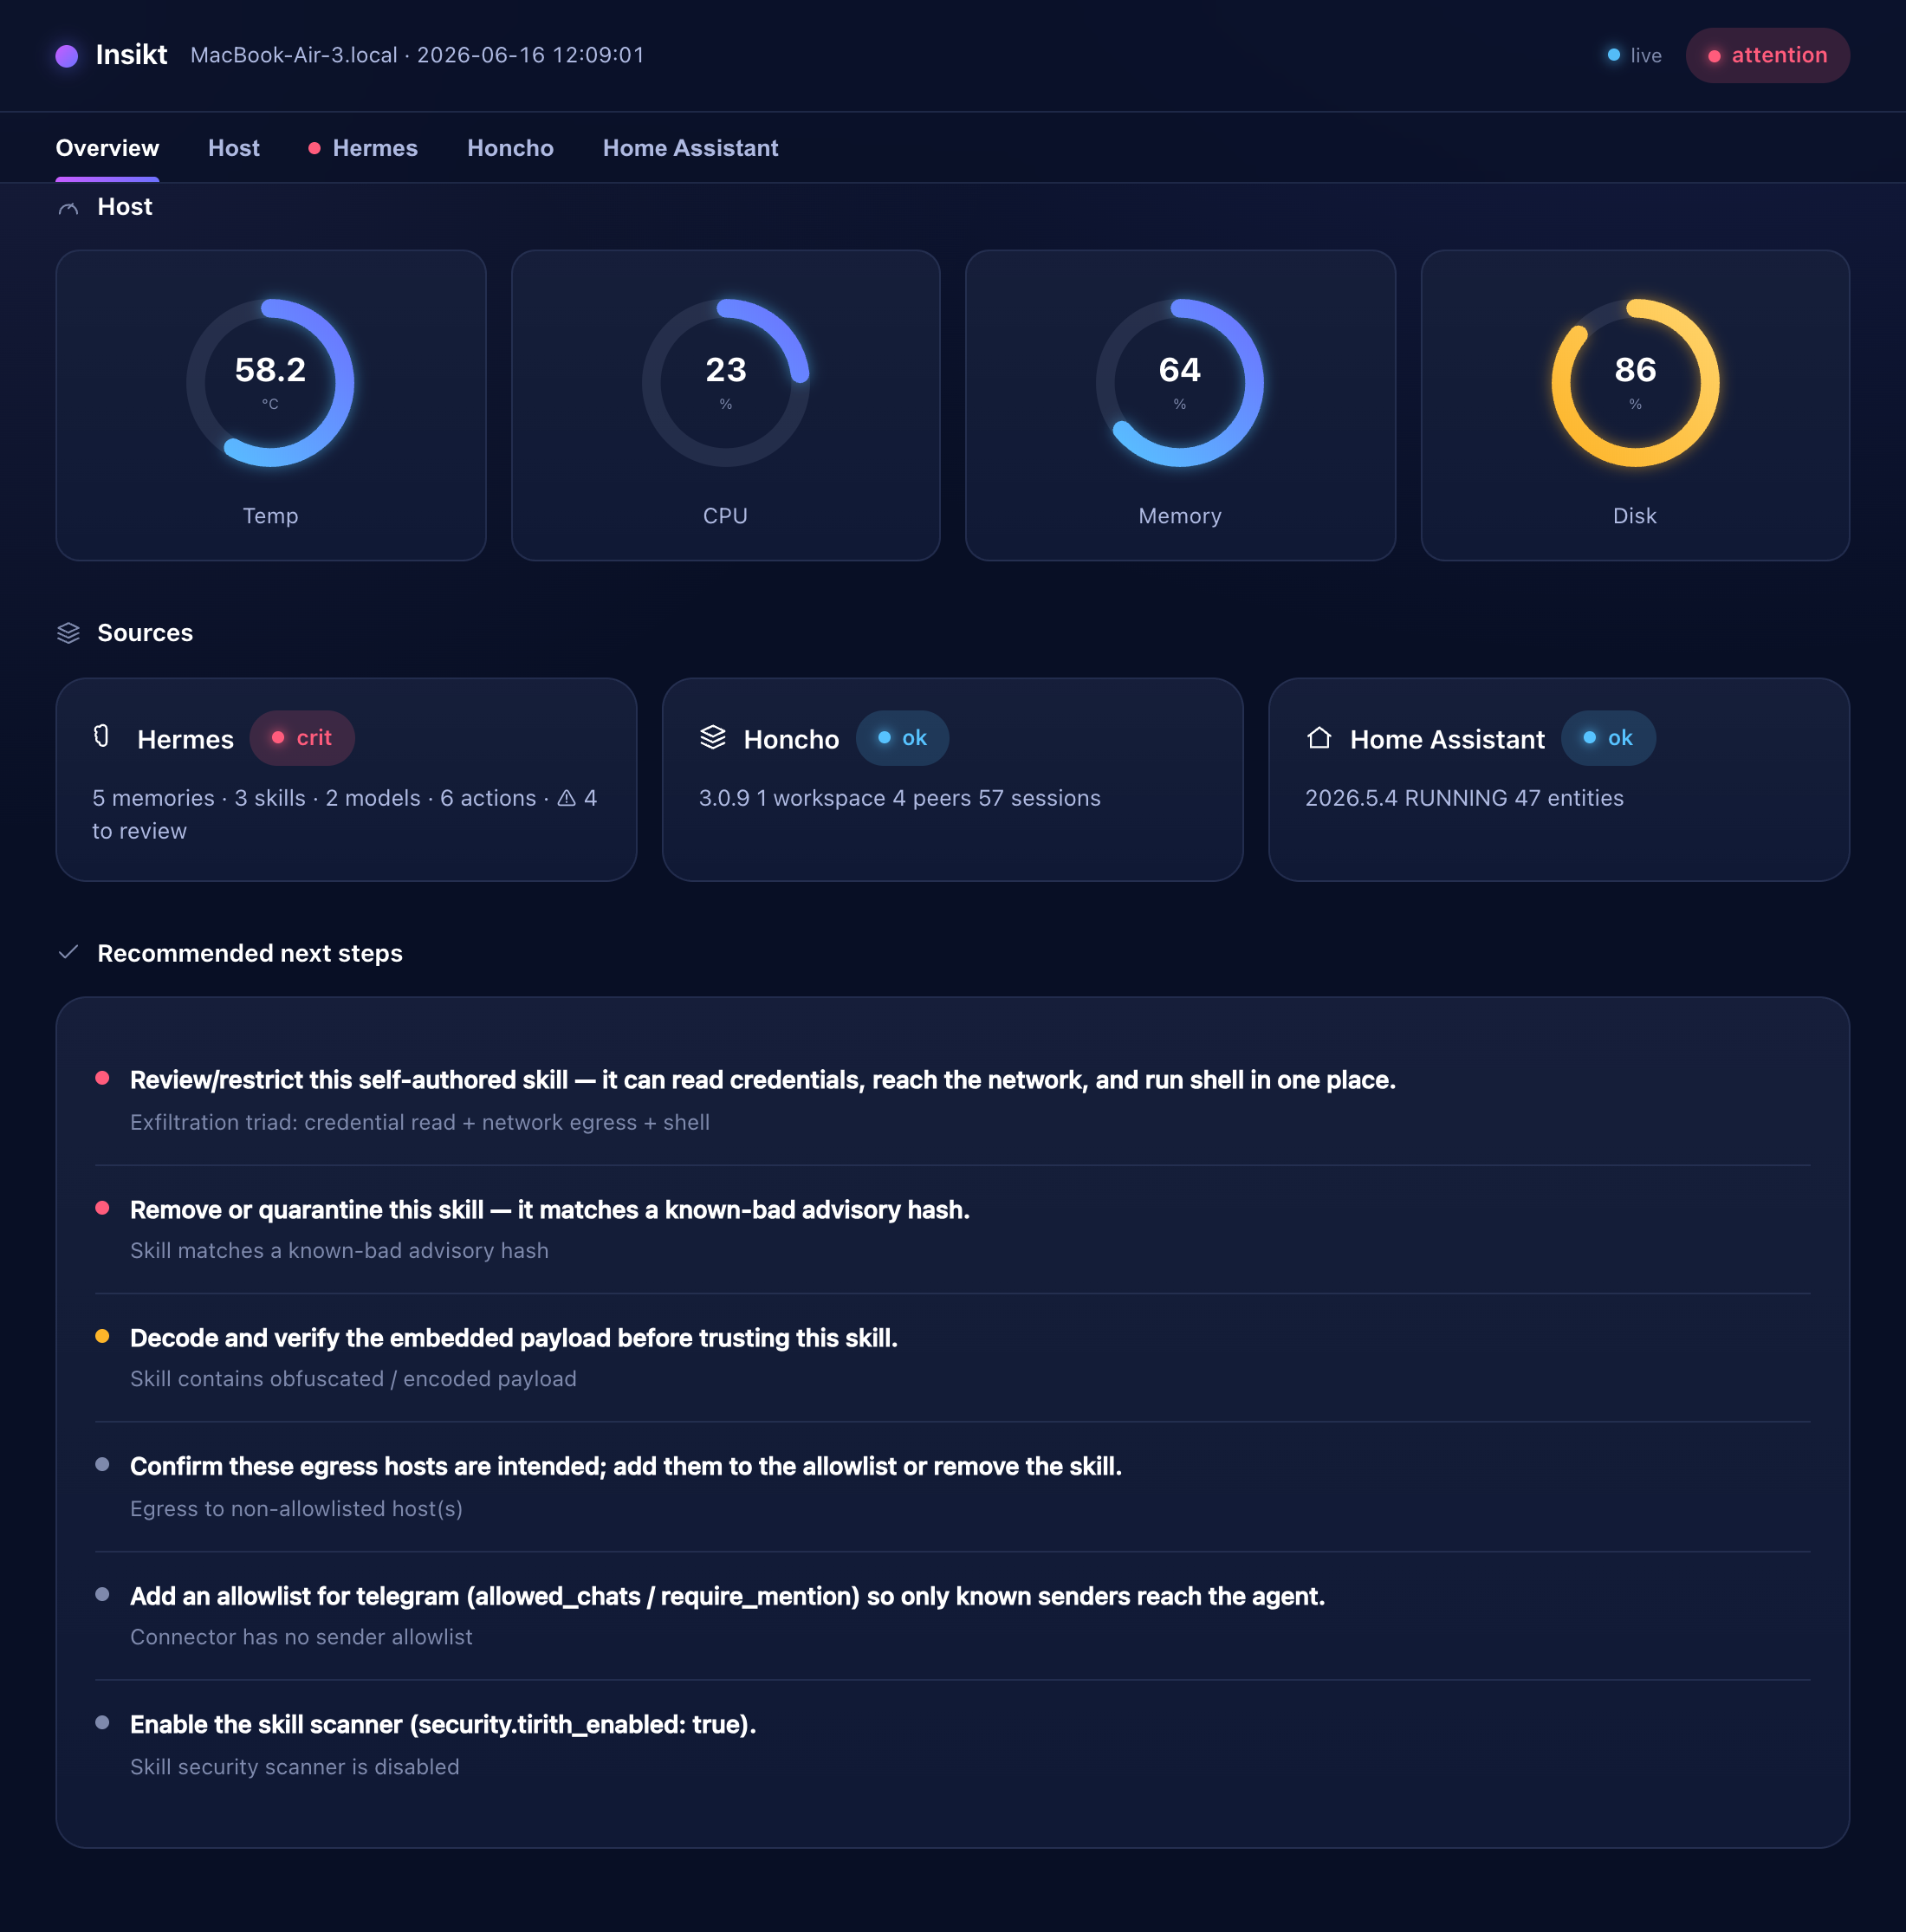
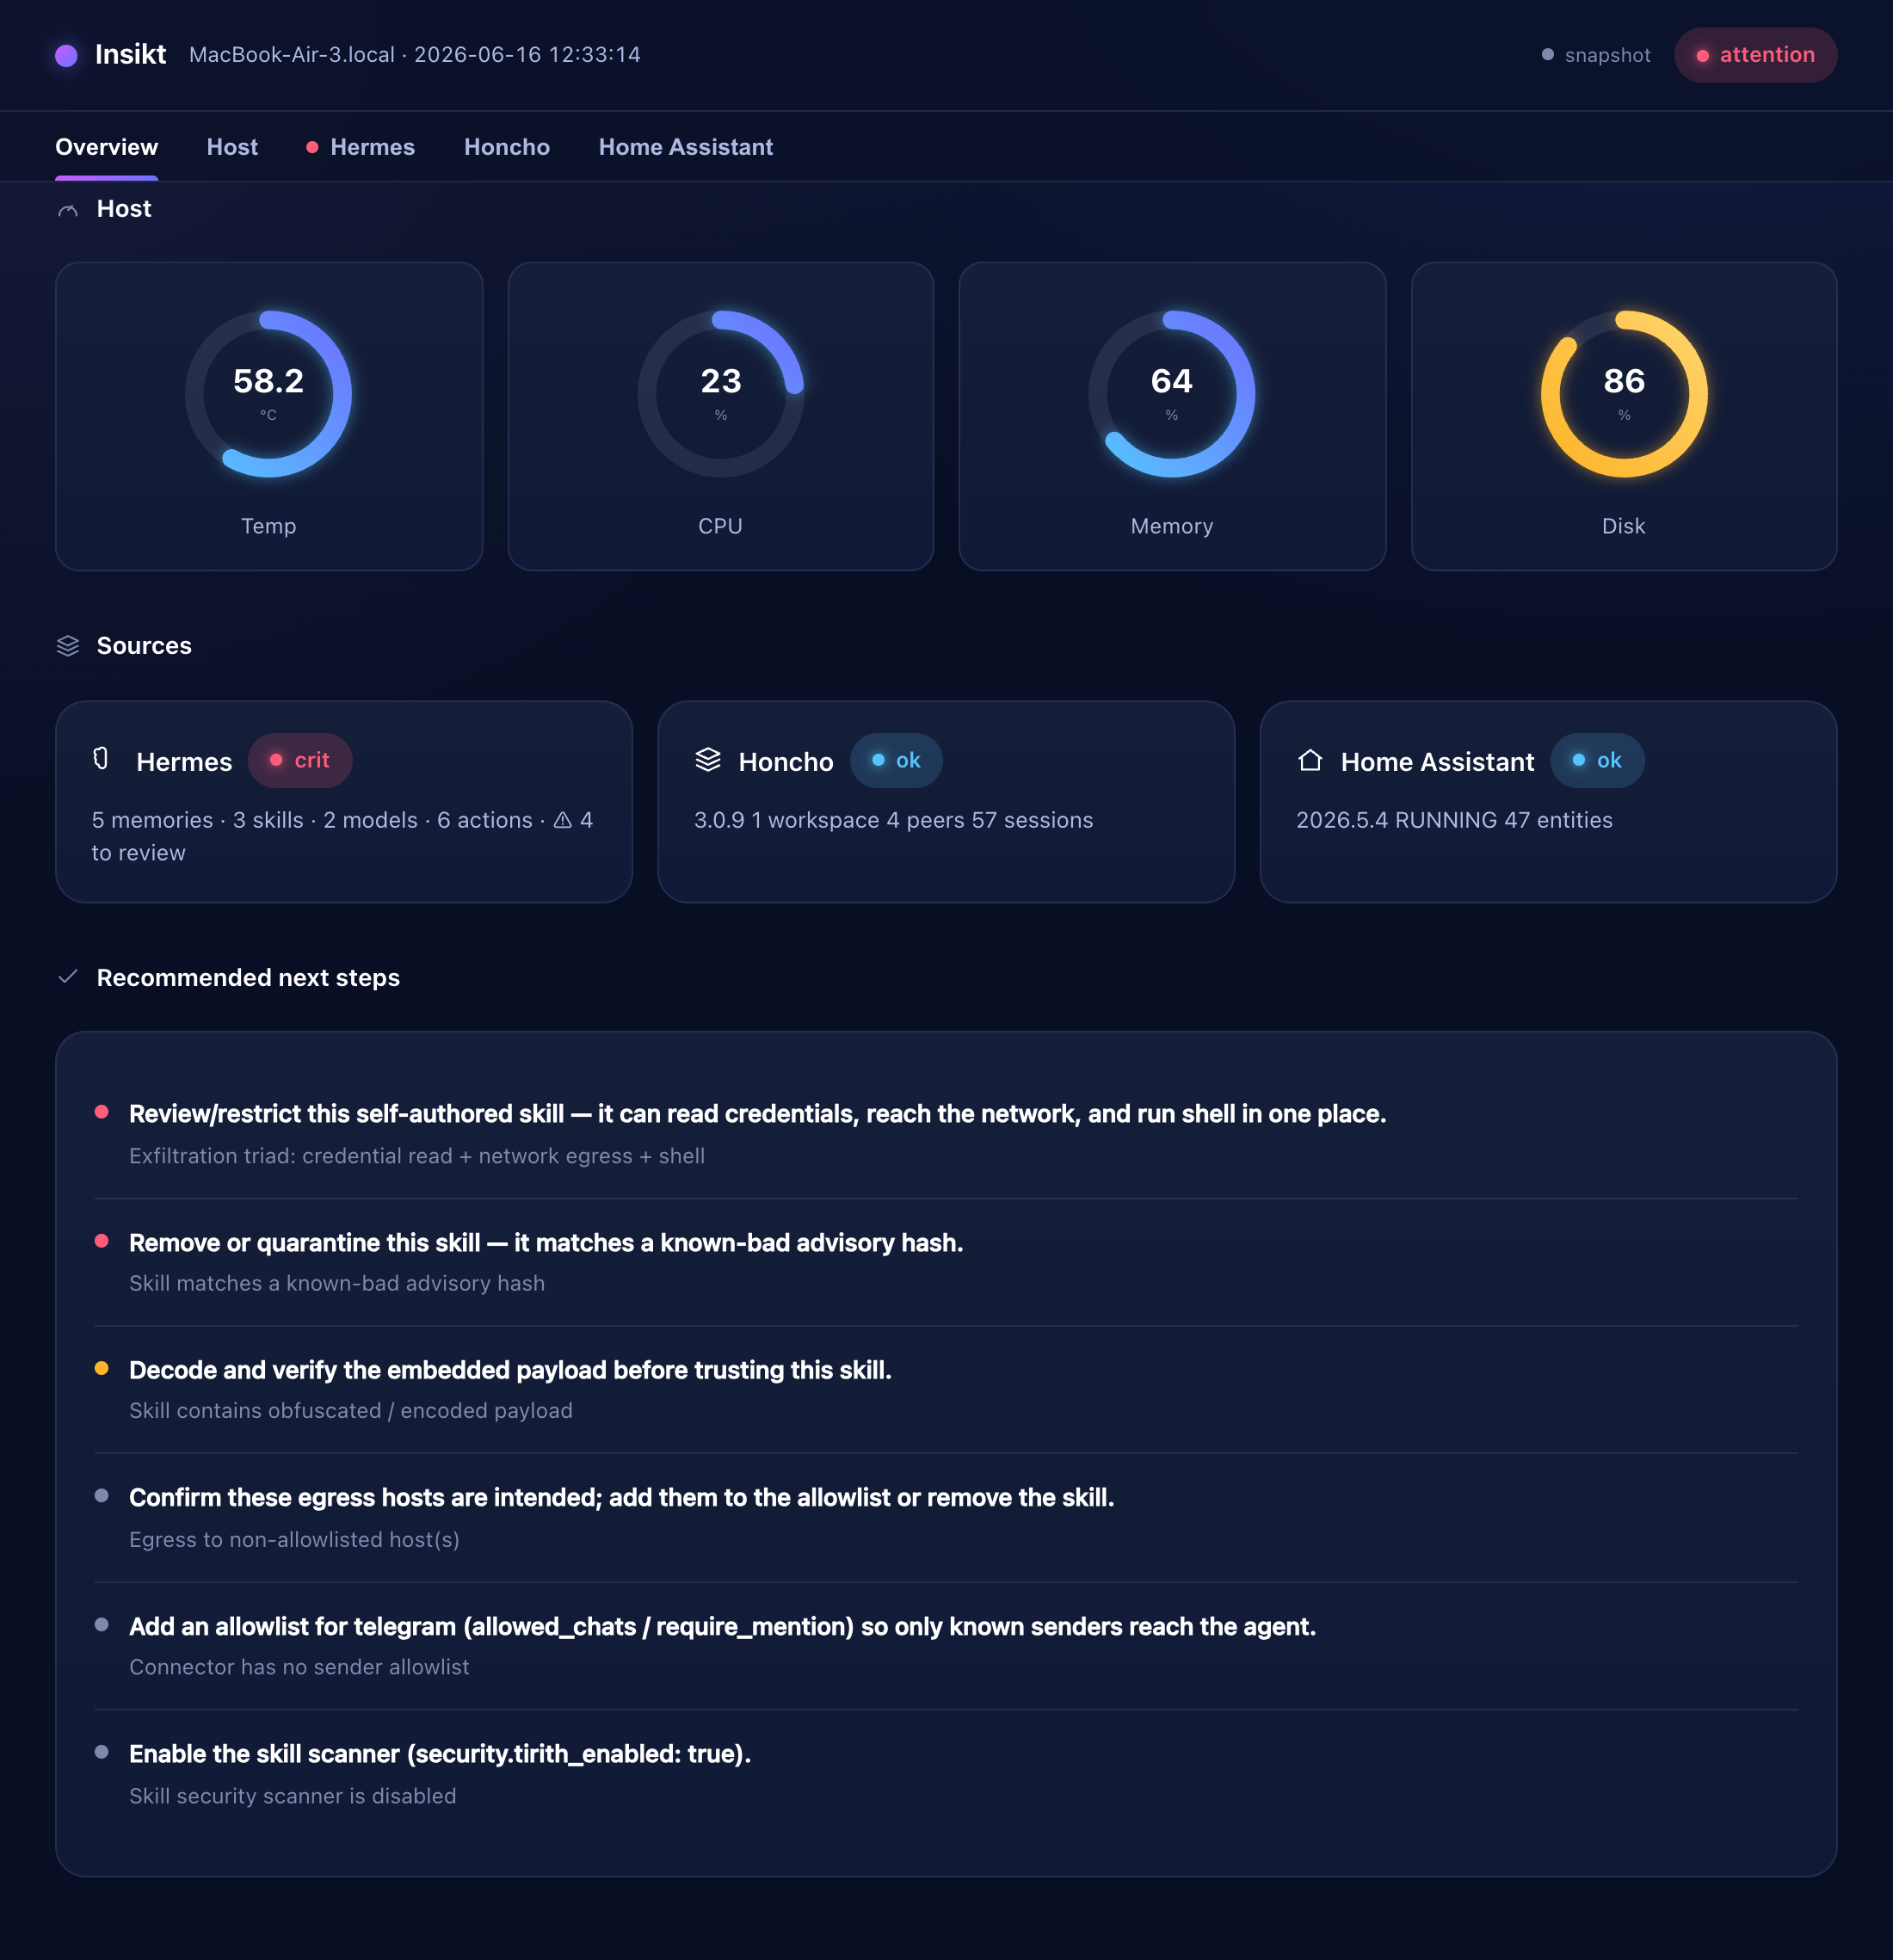
Live-update polish, donut consistency, and opt-in Hermes chat
- Fix flicker on live SSE updates: update the active tab in place and reconcile
  nav status-dots instead of rebuilding <main> + the whole nav (which replayed
  the entrance animation every tick).
- Donut now shares the gauge geometry (r=52, 13px ring, 116px) so the Home
  Assistant chart matches the overview gauges; more vertical margin under
  section headers.
- Add an opt-in "Chat" box on the Hermes tab: server.chat.enabled gates a single
  POST /api/chat route that runs the configured agent CLI (message passed as one
  argv element, no shell) and streams the reply into a chat thread. Off by
  default — the server stays read-only otherwise. meta.chat surfaces the toggle.
- Tests: chat endpoint (disabled=405, enabled runs echo stub, empty=400, other
  verbs still 405, meta.chat reflects the toggle); de-flake two mcp tests that
  compared two independent live collections byte-exact (live disk drift).
- Docs: README serve/chat + firewall note; configure schema; refreshed shots.

diff --git a/insikt/report/dashboard.py b/insikt/report/dashboard.py
@@ -75,8 +75,8 @@ _TEMPLATE = r"""<!DOCTYPE html>
   section.tab{display:none;animation:f .16s ease}
   section.tab.active{display:block}
   @keyframes f{from{opacity:0;transform:translateY(3px)}to{opacity:1;transform:none}}
-  .stitle{font-size:14px;font-weight:650;color:var(--on);margin:30px 0 14px;display:flex;align-items:center;gap:9px;flex-wrap:wrap;min-width:0;overflow-wrap:anywhere}
-  .stitle:first-child{margin-top:2px}
+  .stitle{font-size:14px;font-weight:650;color:var(--on);margin:32px 0 20px;display:flex;align-items:center;gap:9px;flex-wrap:wrap;min-width:0;overflow-wrap:anywhere}
+  .stitle:first-child{margin-top:4px}
   .stitle .ic{color:var(--on3);width:15px;height:15px}
 
   .grid{display:grid;gap:14px}
@@ -187,6 +187,21 @@ _TEMPLATE = r"""<!DOCTYPE html>
   #glegend .r{display:flex;align-items:center;gap:8px;margin:2px 0}.gsw{width:9px;height:9px;border-radius:50%}
   code{background:var(--sc2);padding:1px 6px;border-radius:6px;font-size:12px;overflow-wrap:anywhere;word-break:break-word}
 
+  /* chat with Hermes */
+  .chat{display:flex;flex-direction:column;gap:12px}
+  .clog{display:flex;flex-direction:column;gap:10px;max-height:54vh;overflow-y:auto;padding:2px}
+  .cempty{color:var(--on3);text-align:center;padding:34px 16px}
+  .cmsg{display:flex}.cmsg.you{justify-content:flex-end}
+  .cmsg .cb{max-width:82%;padding:10px 13px;border-radius:14px;font-size:13.5px;line-height:1.55;white-space:pre-wrap;overflow-wrap:anywhere}
+  .cmsg.you .cb{background:var(--grad);color:#fff;border-bottom-right-radius:4px}
+  .cmsg.hermes .cb{background:var(--sc2);color:var(--on);border:1px solid var(--line);border-bottom-left-radius:4px}
+  .cmsg.pending .cb{color:var(--on3)}
+  .cform{display:flex;gap:9px}
+  .cform input{flex:1;min-width:0;background:var(--sc);color:var(--on);border:1px solid var(--line);border-radius:var(--r3);padding:11px 14px;font-size:14px;min-height:46px}
+  .cform input:focus{outline:none;border-color:var(--primary)}
+  .cform button{background:var(--grad);color:#fff;border:none;border-radius:var(--r3);padding:0 22px;font-weight:600;font-size:14px;cursor:pointer;min-height:46px}
+  .cform button:disabled{opacity:.5;cursor:default}
+
   @media (max-width:560px){
     .wrap{padding:0 15px}
     .hmeta{flex-basis:100%;order:9}
@@ -252,11 +267,11 @@ function gauge(label,valTxt,unit,pct,status){
     `</svg><div class="lab">${esc(label)}</div></div>`;
 }
 function donut(segs,center){segs=segs.filter(s=>s.value>0);const t=segs.reduce((a,s)=>a+s.value,0);
-  const r=54,c=2*Math.PI*r,gap=segs.length>1?c*0.02:0;let off=0,arcs="";
-  if(!t)arcs=`<circle cx="70" cy="70" r="${r}" fill="none" stroke="var(--sc2)" stroke-width="16"/>`;
+  const r=52,c=2*Math.PI*r,gap=segs.length>1?c*0.02:0;let off=0,arcs="";  // geometry matches gauge()
+  if(!t)arcs=`<circle cx="70" cy="70" r="${r}" fill="none" stroke="rgba(126,137,172,.16)" stroke-width="13"/>`;
   segs.forEach(s=>{const seg=s.value/t*c,len=Math.max(.1,seg-gap);
-    arcs+=`<circle cx="70" cy="70" r="${r}" fill="none" stroke="${s.color}" stroke-width="16" ${segs.length>1?'stroke-linecap="round"':''} stroke-dasharray="${len.toFixed(1)} ${(c-len).toFixed(1)}" stroke-dashoffset="${(-off-(segs.length>1?gap/2:0)).toFixed(1)}" transform="rotate(-90 70 70)"/>`;off+=seg;});
-  return `<svg class="donut" viewBox="0 0 140 140" width="132" height="132">${arcs}<text x="70" y="67" text-anchor="middle" class="dn">${fmtN(t)}</text><text x="70" y="84" text-anchor="middle" class="dl">${esc(center||"")}</text></svg>`;}
+    arcs+=`<circle cx="70" cy="70" r="${r}" fill="none" stroke="${s.color}" stroke-width="13" ${segs.length>1?'stroke-linecap="round"':''} stroke-dasharray="${len.toFixed(1)} ${(c-len).toFixed(1)}" stroke-dashoffset="${(-off-(segs.length>1?gap/2:0)).toFixed(1)}" transform="rotate(-90 70 70)"/>`;off+=seg;});
+  return `<svg class="donut" viewBox="0 0 140 140" width="116" height="116">${arcs}<text x="70" y="69" text-anchor="middle" class="dn">${fmtN(t)}</text><text x="70" y="88" text-anchor="middle" class="dl">${esc(center||"")}</text></svg>`;}
 const legend=segs=>{const t=segs.reduce((a,s)=>a+s.value,0)||1;return `<div class="legend">`+segs.filter(s=>s.value>0).map(s=>`<div class="lg"><span class="sw" style="background:${s.color}"></span><span class="lt">${esc(s.label)}</span><span class="lv">${fmtN(s.value)}</span></div>`).join("")+`</div>`;};
 const fmtBytes=b=>{if(b==null)return"—";const u=["B","KB","MB","GB","TB"];let i=0,v=b;while(v>=1024&&i<u.length-1){v/=1024;i++;}return v.toFixed(v<10&&i>0?1:0)+" "+u[i];};
 
@@ -283,13 +298,24 @@ function buildNav(){
 let CURRENT="overview";
 function activate(id){CURRENT=id;
   document.querySelectorAll("#nav button").forEach(b=>b.classList.toggle("active",b.dataset.tab===id));
-  render();window.scrollTo(0,0);
+  render(true);window.scrollTo(0,0);
   if(id==="hermes")initAgentGraphIfNeeded();
 }
-function render(){
+function render(animate){
   const f={overview:renderOverview,host:renderHost,hermes:renderHermes,honcho:()=>renderSource("honcho"),homeassistant:()=>renderSource("homeassistant")}[CURRENT];
-  $("main").innerHTML=`<section class="tab active">${f?f():""}</section>`;
+  const inner=f?f():"";
+  const sec=$("main").firstElementChild;
+  if(animate||!sec){$("main").innerHTML=`<section class="tab active">${inner}</section>`;}
+  else{sec.innerHTML=inner;}  // in-place on live ticks: no entrance-animation flash
   if(CURRENT==="hermes")wireHermes();
+}
+// reconcile the nav status dots in place (no rebuild) so live ticks don't flicker the navbar
+function updateNavDots(){
+  document.querySelectorAll("#nav button").forEach(b=>{
+    const st=(S()[b.dataset.tab]||{}).status; let dot=b.querySelector(".sd");
+    if(st&&st!=="ok"){if(!dot){dot=document.createElement("span");dot.className="sd";b.insertBefore(dot,b.firstChild);}dot.style.background=STC[st]||"var(--off)";}
+    else if(dot){dot.remove();}
+  });
 }
 
 /* ---------- overview ---------- */
@@ -367,10 +393,35 @@ function renderHermes(){
   if(!s.available)return `<div class="empty">Hermes not found at <code>${esc((s.data||{}).home||"~/.hermes")}</code>. Run <code>insikt configure</code>.</div>`;
   const subs=[["summary","Summary"]];const ag=A();
   if(ag){subs.push(["capability","Capabilities"],["timeline","Timeline"],["cost","Models"],["hygiene","Hygiene"],["graph","Graph"]);}
+  if(LIVE&&DATA.meta&&DATA.meta.chat)subs.push(["chat","Chat"]);
+  if(!subs.some(s=>s[0]===HSUB))HSUB="summary";
   let h=`<div class="subnav">`+subs.map(([k,l])=>`<button class="${k===HSUB?"active":""}" data-sub="${k}">${esc(l)}</button>`).join("")+`</div><div id="hsub">${renderHermesSub()}</div>`;
   return h;
 }
-function wireHermes(){document.querySelectorAll(".subnav button").forEach(b=>b.onclick=()=>{HSUB=b.dataset.sub;document.querySelectorAll(".subnav button").forEach(x=>x.classList.toggle("active",x===b));$("hsub").innerHTML=renderHermesSub();if(HSUB==="graph")initAgentGraph();if(HSUB==="timeline")wireTimeline();});}
+function wireHermes(){document.querySelectorAll(".subnav button").forEach(b=>b.onclick=()=>{HSUB=b.dataset.sub;document.querySelectorAll(".subnav button").forEach(x=>x.classList.toggle("active",x===b));$("hsub").innerHTML=renderHermesSub();if(HSUB==="graph")initAgentGraph();if(HSUB==="timeline")wireTimeline();if(HSUB==="chat")wireChat();});if(HSUB==="chat")wireChat();}
+/* ---------- chat with Hermes (live server only, opt-in) ---------- */
+let CHATLOG=[];
+const chatBubble=m=>`<div class="cmsg ${m.role}${m.pending?" pending":""}"><div class="cb">${esc(m.text)}</div></div>`;
+function renderChat(){
+  return `<div class="chat"><div class="clog" id="clog">${CHATLOG.length?CHATLOG.map(chatBubble).join(""):'<div class="cempty">Ask your Hermes instance anything — replies run on the Pi.</div>'}</div>`+
+    `<form class="cform" id="cform"><input id="cin" placeholder="Message Hermes…" autocomplete="off" maxlength="4000"><button type="submit" id="csend">Send</button></form></div>`;
+}
+function redrawChat(){const c=$("clog");if(c){c.innerHTML=CHATLOG.map(chatBubble).join("");c.scrollTop=c.scrollHeight;}}
+function wireChat(){
+  const form=$("cform");if(!form)return;
+  const inp=$("cin"),btn=$("csend");
+  form.onsubmit=async e=>{e.preventDefault();const msg=(inp.value||"").trim();if(!msg)return;
+    CHATLOG.push({role:"you",text:msg});CHATLOG.push({role:"hermes",text:"thinking…",pending:true});
+    inp.value="";inp.disabled=btn.disabled=true;redrawChat();
+    try{
+      const r=await fetch("/api/chat",{method:"POST",headers:{"Content-Type":"application/json"},body:JSON.stringify({message:msg})});
+      const d=await r.json().catch(()=>({}));
+      CHATLOG[CHATLOG.length-1]={role:"hermes",text:(d&&(d.reply||d.message||d.error))||"(no reply)"};
+    }catch(err){CHATLOG[CHATLOG.length-1]={role:"hermes",text:"(request failed — is the agent reachable?)"};}
+    inp.disabled=btn.disabled=false;redrawChat();inp.focus();
+  };
+  inp&&inp.focus();
+}
 function renderHermesSub(){
   const s=S().hermes,d=s.data||{},ag=A();
   if(HSUB==="summary"){
@@ -380,6 +431,7 @@ function renderHermesSub(){
     if(meta.length)h+=`<div class="card" style="margin-top:14px"><div class="sm muted">${meta.map(esc).join("  ·  ")}</div></div>`;
     return h;
   }
+  if(HSUB==="chat")return renderChat();
   if(!ag)return `<div class="empty">No agent data.</div>`;
   if(HSUB==="capability")return renderCap(ag.capability);
   if(HSUB==="timeline")return renderTimeline(ag.timeline);
@@ -466,14 +518,13 @@ function startLive(){
     const es=new EventSource("/events");
     es.onmessage=ev=>{try{const m=JSON.parse(ev.data);if(m.host)DATA.sections.system=m.host;if(m.status)DATA.status=m.status;if(m.generated)DATA.meta.generated=m.generated;
       renderBar();
-      // refresh nav status dots + the active host/overview view
-      buildNav();document.querySelector(`#nav button[data-tab="${CURRENT}"]`)?.classList.add("active");
-      if(CURRENT==="overview"||CURRENT==="host")render();
+      updateNavDots();
+      if(CURRENT==="overview"||CURRENT==="host")render(false);  // in-place, no flicker
     }catch(e){}};
   }catch(e){}
 }
 
-renderBar();buildNav();render();startLive();
+renderBar();buildNav();render(true);startLive();
 </script>
 </body>
 </html>"""

diff --git a/tests/test_server.py b/tests/test_server.py
@@ -178,3 +178,67 @@ def test_mutating_verbs_all_rejected():
             except urllib.error.HTTPError as e:
                 assert e.code == 405, verb
                 assert json.loads(e.read())["error"] == "read_only"
+
+
+def _post(server, path, payload):
+    req = urllib.request.Request(
+        server.url(path), data=json.dumps(payload).encode(), method="POST",
+        headers={"Content-Type": "application/json"})
+    with urllib.request.urlopen(req, timeout=10) as resp:
+        return resp.status, json.loads(resp.read())
+
+
+def test_chat_disabled_by_default_is_405():
+    """Chat is opt-in: with no server.chat config, POST /api/chat is rejected."""
+    with _Server(_make_cache()) as srv:
+        req = urllib.request.Request(
+            srv.url("/api/chat"), data=b'{"message":"hi"}', method="POST",
+            headers={"Content-Type": "application/json"})
+        try:
+            urllib.request.urlopen(req, timeout=5)
+            raise AssertionError("expected HTTP 405")
+        except urllib.error.HTTPError as e:
+            assert e.code == 405
+            assert json.loads(e.read())["error"] == "read_only"
+
+
+def _chat_cache() -> StateCache:
+    # Enable chat with a harmless stub command: `echo <message>` echoes it back.
+    prof = dict(PROFILE)
+    prof["server"] = {"refresh": 5, "chat": {"enabled": True, "cmd": ["echo"], "timeout": 10}}
+    return StateCache(prof)
+
+
+def test_chat_enabled_runs_command_and_returns_reply():
+    with _Server(_chat_cache()) as srv:
+        status, body = _post(srv, "/api/chat", {"message": "ping pong"})
+        assert status == 200
+        assert body["ok"] is True
+        assert body["reply"] == "ping pong"  # echo strips the trailing newline
+
+
+def test_chat_empty_message_is_400():
+    with _Server(_chat_cache()) as srv:
+        req = urllib.request.Request(
+            srv.url("/api/chat"), data=b'{"message":"   "}', method="POST",
+            headers={"Content-Type": "application/json"})
+        try:
+            urllib.request.urlopen(req, timeout=5)
+            raise AssertionError("expected HTTP 400")
+        except urllib.error.HTTPError as e:
+            assert e.code == 400
+
+
+def test_chat_enabled_other_paths_still_405():
+    """Enabling chat must not open any other mutating route."""
+    with _Server(_chat_cache()) as srv:
+        req = urllib.request.Request(srv.url("/"), data=b"{}", method="POST")
+        try:
+            urllib.request.urlopen(req, timeout=5)
+            raise AssertionError("expected HTTP 405")
+        except urllib.error.HTTPError as e:
+            assert e.code == 405
+
+    # meta.chat reflects the toggle so the dashboard can show the box.
+    assert _chat_cache().state()["meta"]["chat"] is True
+    assert _make_cache().state()["meta"]["chat"] is False

diff --git a/insikt/server.py b/insikt/server.py
@@ -124,10 +124,47 @@ def _make_handler(cache: StateCache):
             else:
                 self._send(404, json.dumps({"error": "not_found"}), "application/json")
 
-        def do_POST(self):
+        def _reject(self):
             self._send(405, json.dumps({"error": "read_only", "message": "Insikt is read-only"}), "application/json")
 
-        do_PUT = do_DELETE = do_PATCH = do_POST
+        do_PUT = do_DELETE = do_PATCH = _reject
+
+        def do_POST(self):
+            path = self.path.split("?", 1)[0]
+            chat = (cache.profile.get("server") or {}).get("chat") or {}
+            if path == "/api/chat" and chat.get("enabled"):
+                return self._chat(chat)
+            self._reject()
+
+        def _chat(self, chat):
+            import subprocess
+
+            try:
+                n = int(self.headers.get("Content-Length", 0))
+            except (TypeError, ValueError):
+                n = 0
+            if n <= 0 or n > 16000:
+                return self._send(400, json.dumps({"error": "bad_request"}), "application/json")
+            try:
+                body = json.loads(self.rfile.read(n) or b"{}")
+                msg = str(body.get("message", "")).strip()
+            except (ValueError, AttributeError):
+                return self._send(400, json.dumps({"error": "bad_json"}), "application/json")
+            if not msg:
+                return self._send(400, json.dumps({"error": "empty_message"}), "application/json")
+            msg = msg[:4000]
+            cmd = list(chat.get("cmd") or ["hermes", "-z"])
+            timeout = float(chat.get("timeout", 180))
+            try:
+                # message is passed as a single argv element (no shell) — not interpolated.
+                r = subprocess.run(cmd + [msg], capture_output=True, text=True, timeout=timeout)
+                reply = (r.stdout or "").strip() or (r.stderr or "").strip() or "(no output)"
+                ok = r.returncode == 0
+            except subprocess.TimeoutExpired:
+                reply, ok = f"(agent timed out after {int(timeout)}s)", False
+            except OSError as exc:
+                reply, ok = f"(could not run agent: {exc})", False
+            self._send(200, json.dumps({"reply": reply, "ok": ok}), "application/json")
 
         def _sse(self):
             try:

diff --git a/tests/test_mcp_server.py b/tests/test_mcp_server.py
@@ -78,9 +78,12 @@ def test_host_returns_trimmed_system_section():
     assert "status" in out and "available" in out and "data" in out
     assert isinstance(out["data"], dict)
 
-    # it must equal the system section inside the full rollup.
-    full = mcp_server.system_state_impl(PROFILE)
-    assert out == full["sections"]["system"]
+    # it must match the system section inside the full rollup (structure + stable
+    # fields; two independent collections can differ by a few live disk bytes).
+    full = mcp_server.system_state_impl(PROFILE)["sections"]["system"]
+    assert set(out) == set(full)
+    assert out["status"] == full["status"] and out["available"] == full["available"]
+    assert set(out["data"]) == set(full["data"])
 
 
 # --- insikt_hermes --------------------------------------------------------
@@ -138,10 +141,16 @@ def test_source_unknown_name_is_an_error():
 
 
 def test_source_system_is_alias_for_host():
-    # "system" is a valid source name and should match the host section.
+    # "system" is a valid source name and should resolve to the host section.
+    # (Compare structure + stable fields, not byte-exact data: two independent
+    # collections can differ by a few live disk bytes between os.statvfs reads.)
     out = mcp_server.source_impl("system", PROFILE)
+    host = mcp_server.host_impl(PROFILE)
     assert "error" not in out
-    assert out == mcp_server.host_impl(PROFILE)
+    assert set(out) == set(host)
+    assert out["available"] == host["available"]
+    assert out["status"] == host["status"]
+    assert set(out.get("data", {})) == set(host.get("data", {}))
 
 
 # --- insikt_self_report ---------------------------------------------------

diff --git a/insikt/profiles.py b/insikt/profiles.py
@@ -55,7 +55,16 @@ DEFAULT_PROFILE: dict = {
         "token_file": "~/.hermes/ha_token.txt",
         "token_env": "HA_TOKEN",
     },
-    "server": {"bind": "0.0.0.0", "port": 8420, "refresh": 5},
+    "server": {
+        "bind": "0.0.0.0",
+        "port": 8420,
+        "refresh": 5,
+        # Opt-in chat box on the Hermes tab. OFF by default so the server stays
+        # strictly read-only; enable it to drive the local agent CLI from the
+        # dashboard. `cmd` is run with the message appended as a single argument
+        # (no shell), e.g. ["hermes", "-z"] -> `hermes -z "<message>"`.
+        "chat": {"enabled": False, "cmd": ["hermes", "-z"], "timeout": 180},
+    },
 }
 
 

diff --git a/insikt/configure.py b/insikt/configure.py
@@ -67,6 +67,9 @@ PROFILE_SCHEMA = {
         "bind": "bind address (default 0.0.0.0 — reachable over the overlay)",
         "port": "TCP port (default 8420)",
         "refresh": "live host-metric refresh seconds (default 5)",
+        "chat": "{enabled,cmd,timeout} — opt-in chat box that runs the local agent "
+        "CLI (default off; the server is read-only otherwise). cmd is run with the "
+        "message appended as one argument, e.g. ['hermes','-z'].",
     },
 }
 

diff --git a/insikt/state.py b/insikt/state.py
@@ -68,6 +68,7 @@ def collect_state(
             "host": _platform.node() or "host",
             "model": sections["system"].get("data", {}).get("model"),
             "refresh": (profile.get("server") or {}).get("refresh", 5),
+            "chat": bool(((profile.get("server") or {}).get("chat") or {}).get("enabled")),
         },
         "status": rollup,
         "sections": sections,

diff --git a/README.md b/README.md
@@ -49,8 +49,10 @@ insikt serve           # binds 0.0.0.0:8420 by default
 
 Leave it running on the Pi and open `http://<pi>:8420` from anywhere on your
 ZeroTier/Tailscale overlay. Host metrics refresh live over Server-Sent Events;
-the heavier sources refresh on a slower cadence. The server is strictly
-read-only — only `GET` is served, everything else returns `405`. Run it under
+the heavier sources refresh on a slower cadence. The server is read-only by
+default — only `GET` is served, everything else returns `405`. (If the Pi runs a
+firewall, allow the port on your overlay interface, e.g.
+`sudo ufw allow in on <zt-iface> to any port 8420 proto tcp`.) Run it under
 systemd to keep it up:
 
 ```ini
@@ -80,6 +82,22 @@ insikt configure --show       # print the effective profile
 The profile is one plain, editable YAML at `~/.insikt/profile.yaml`. A connected
 agent can also author it over the read-only `insikt_describe_layout` MCP tool and
 hand the result to `insikt configure --apply`.
+
+### Chat with your agent (opt-in)
+
+The Hermes tab can include a chat box that talks to your local agent. It's **off
+by default** (so the server stays read-only); enable it in the profile:
+
+```yaml
+server:
+  chat:
+    enabled: true
+    cmd: ["hermes", "-z"]   # your message is appended as one argument (no shell)
+    timeout: 180
+```
+
+This is the only non-`GET` route; the message runs `cmd` on the Pi and returns
+the reply. Only enable it on an overlay you trust.
 
 ## Connect it to your agent
 